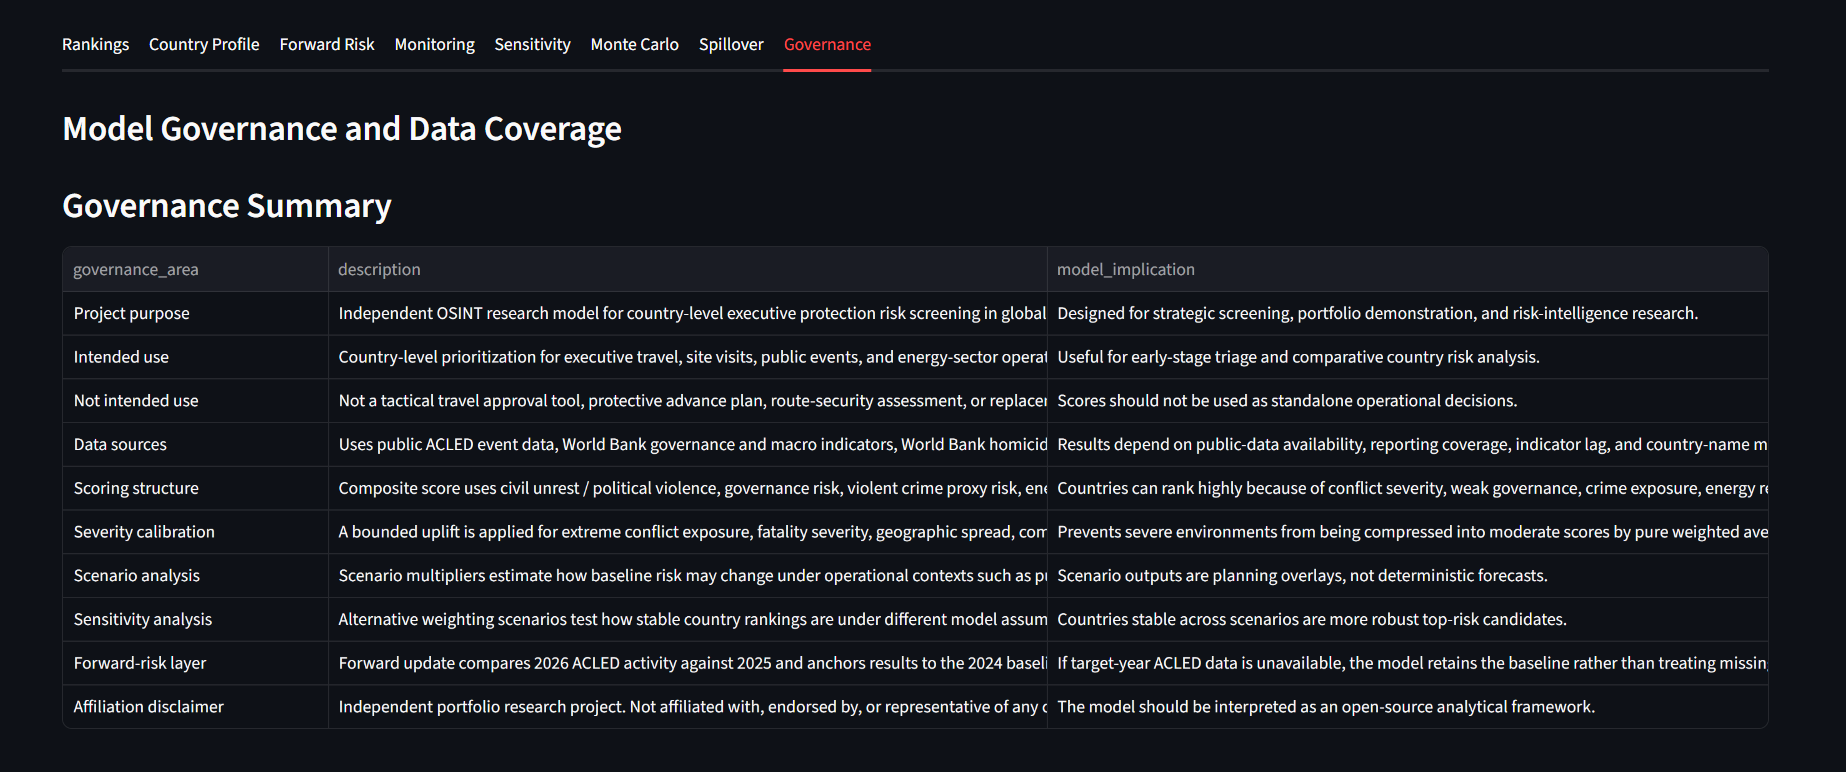
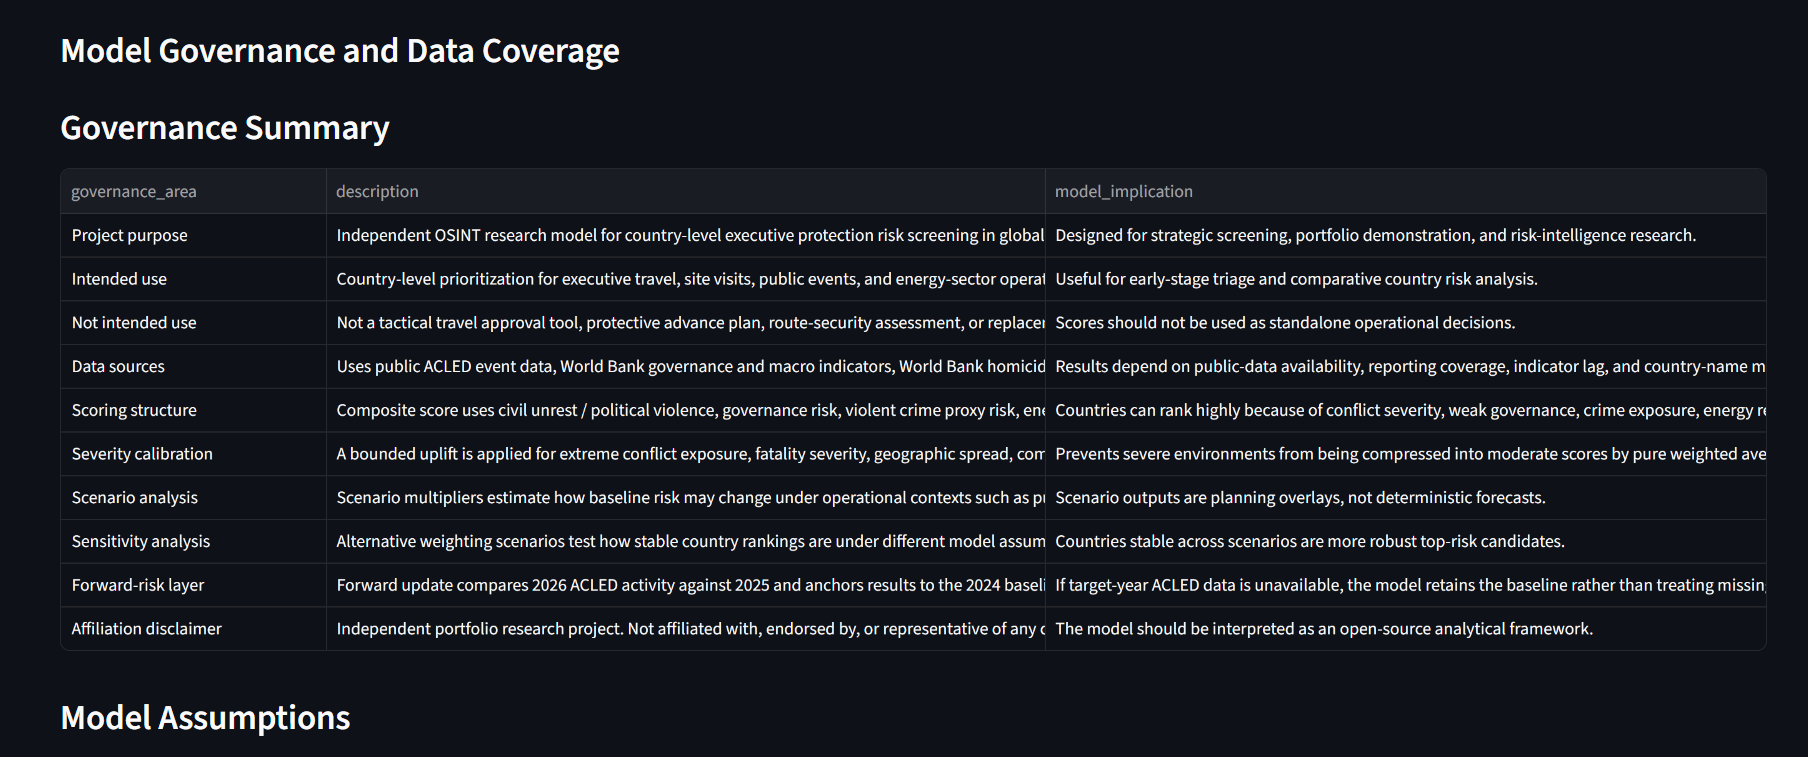
Update dashboard screenshots and add intelligence signal preview

diff --git a/README.md b/README.md
@@ -99,6 +99,14 @@ outputs/screenshots/
 
 ![Country Risk Rankings](outputs/screenshots/dashboard_rankings.png)
 
+### Country Intelligence Profile
+
+![Country Intelligence Profile](outputs/screenshots/dashboard_country_profile.png)
+
+### Executive Protection Intelligence Signal
+
+![Executive Protection Intelligence Signal](outputs/screenshots/dashboard_intelligence_signal.png)
+
 ### 2026 Forward Risk Update
 
 ![2026 Forward Risk Update](outputs/screenshots/dashboard_forward_risk.png)
@@ -114,10 +122,6 @@ outputs/screenshots/
 ### Model Governance and Data Coverage
 
 ![Model Governance](outputs/screenshots/dashboard_governance.png)
-
-### Country Intelligence Profile
-
-![Country Intelligence Profile](outputs/screenshots/dashboard_country_profile.png)
 
 ---
 
@@ -696,13 +700,14 @@ The project includes a Streamlit dashboard for interactive review.
 Run it with:
 
 ```powershell
-streamlit run app.py
+python -m streamlit run app.py
 ```
 
 Dashboard tabs include:
 
 - Rankings
 - Country Profile
+- Intelligence Signal
 - Forward Risk
 - Monitoring
 - Sensitivity
